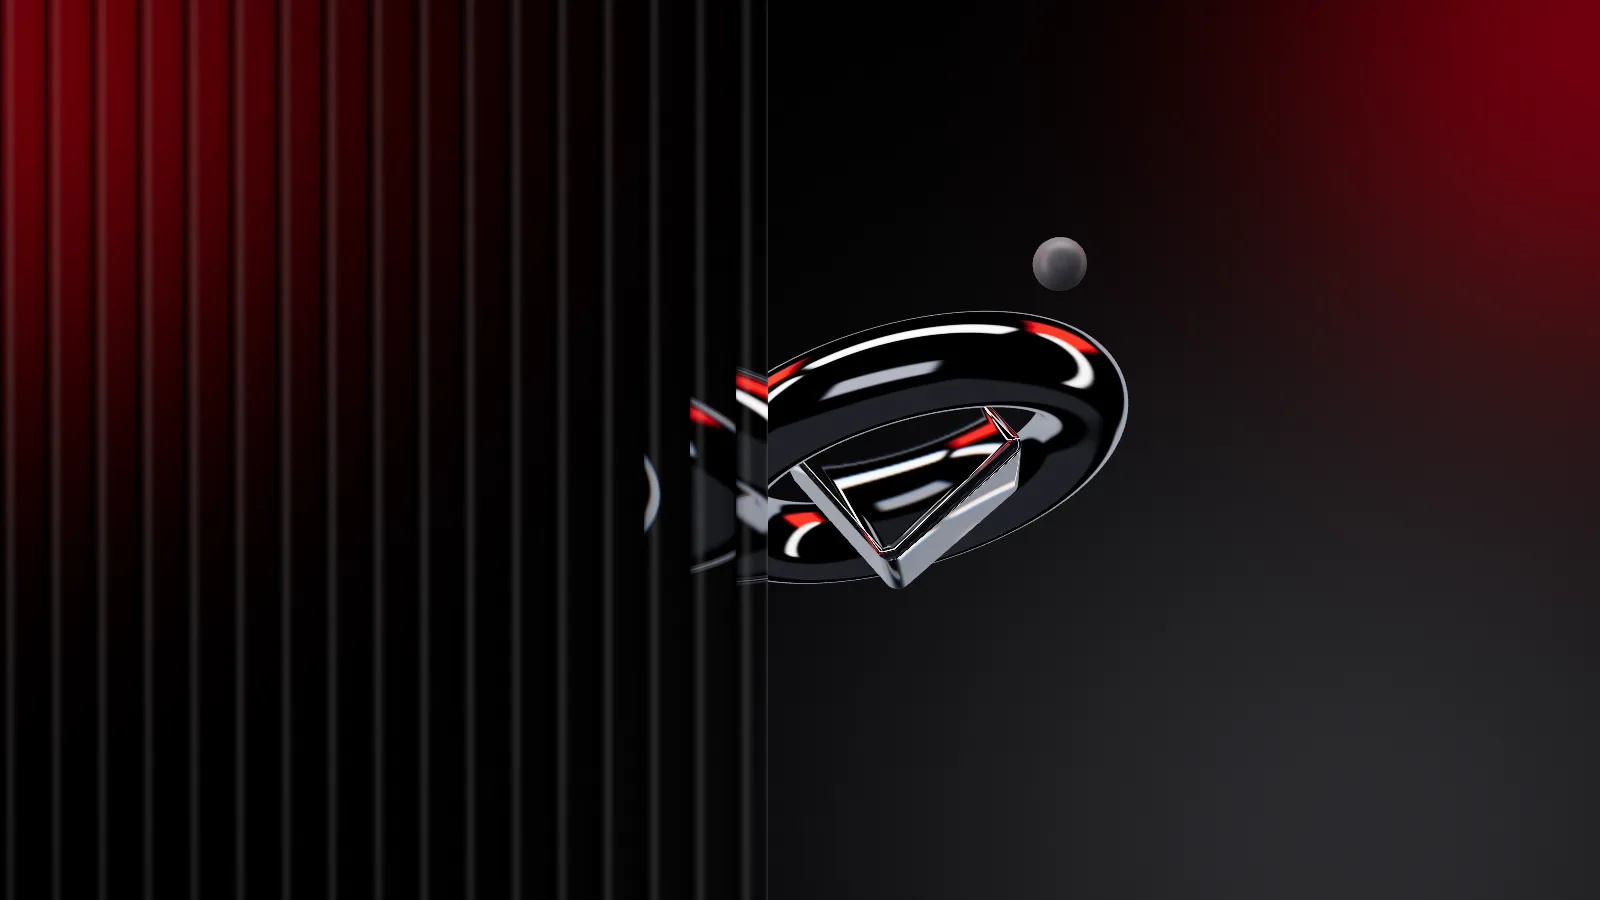
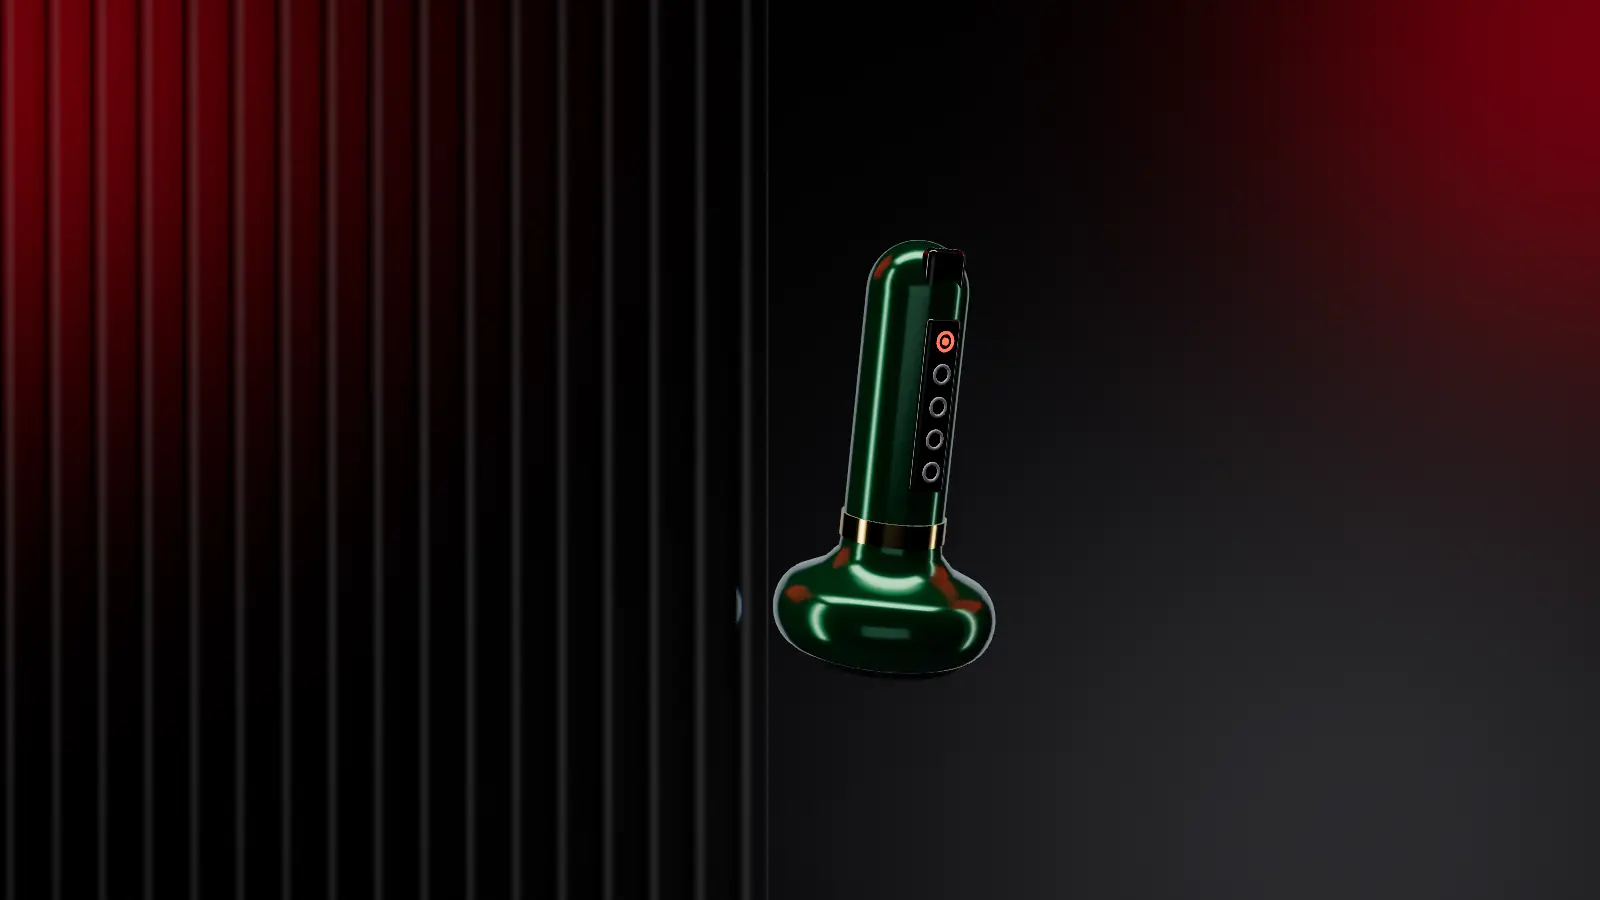
feat(home): a 3D product model in the hero in place of the ring and cube
The hero scene now shows an electric body massager modelled in three.js (a
turned green metallic body, gold band, rubber pad, black control panel with
five buttons) swinging slowly on itself, its panel always towards the
visitor. Same room, lighting, fluted glass and quality steps as before. The
fallback stills are re-rendered from the new scene.

Claude-Session: https://claude.ai/code/session_017pBbcqrgy4CsoAD5DuqsEz

Changed region(s): [[0.375, 0.2489, 0.7188, 0.7467]]

diff --git a/src/components/home/heroScene.ts b/src/components/home/heroScene.ts
@@ -1,6 +1,7 @@
 /**
- * The home page's 3D hero: a polished ring turning around a crystal cube (the product at the centre of its
- * campaign), seen through a fluted glass panel, in a dark room lit by deep red light.
+ * The home page's 3D hero: a product modelled in 3D (an electric body massager: green metallic body, gold band,
+ * black control panel) turning slowly on itself, seen through a fluted glass panel, in a dark room lit by deep red
+ * light.
  *
  * Two passes. The scene (a background plane, the objects) is rendered into an HDR target; a full-screen pass then
  * draws it through the fluted panel, adds the vignette, and tone-maps it to the screen. Loaded on demand (this
@@ -11,8 +12,10 @@ import {
   ACESFilmicToneMapping,
   Color,
   DoubleSide,
+  CylinderGeometry,
   Group,
   HalfFloatType,
+  LatheGeometry,
   Mesh,
   MeshBasicMaterial,
   MeshPhysicalMaterial,
@@ -23,12 +26,12 @@ import {
   PMREMGenerator,
   Scene,
   ShaderMaterial,
-  SphereGeometry,
   SRGBColorSpace,
   TorusGeometry,
   Vector2,
   WebGLRenderer,
   WebGLRenderTarget,
+  type BufferGeometry,
   type Material,
   type Texture,
 } from 'three';
@@ -69,7 +72,7 @@ export interface HeroSceneOptions {
 const FOV = 30;
 const CAMERA_Z = 9;
 const BACKDROP_Z = -8;
-/** height of the object group in world units at scale 1 (the ring's outer diameter with a little air) */
+/** height of the object group in world units at scale 1 (the product's height with a little air) */
 const OBJECT_HEIGHT = 2.9;
 const INTRO_SECONDS = 1.8;
 
@@ -183,7 +186,7 @@ function buildEnvironment(renderer: WebGLRenderer): WebGLRenderTarget<Texture> {
     materials.push(material);
   };
   panel(8, 1.6, 0xffffff, 6, [0, 5.5, 0.5]); // overhead softbox
-  panel(0.6, 8, 0xffffff, 7, [-5.5, 0.5, 1.5]); // tall strips on both sides: the bright lines along the ring
+  panel(0.6, 8, 0xffffff, 7, [-5.5, 0.5, 1.5]); // tall strips on both sides: the bright lines along the product
   panel(0.4, 8, 0xffffff, 5, [5.5, 0.5, -1]);
   panel(10, 6, 0x7a7e88, 1.6, [0, 0, -7]); // grey back wall, so polished metal reads silver, not black
   panel(10, 10, 0x3a3b40, 0.9, [0, -5, 0]);
@@ -198,26 +201,74 @@ function buildEnvironment(renderer: WebGLRenderer): WebGLRenderTarget<Texture> {
   return target;
 }
 
-/** The ring is polished metal everywhere; the cube is real refractive crystal where the device can afford it. */
-function objectMaterials(transmission: boolean): { ring: MeshPhysicalMaterial; cube: MeshPhysicalMaterial } {
-  const ring = new MeshPhysicalMaterial({ color: 0xe6e8ec, metalness: 1, roughness: 0.06, clearcoat: 1, clearcoatRoughness: 0.03, envMapIntensity: 1.2 });
-  if (transmission) {
-    return {
-      ring,
-      cube: new MeshPhysicalMaterial({
-        color: 0xffffff, metalness: 0, roughness: 0, transmission: 1, thickness: 1.6, ior: 2.2, dispersion: 0.8,
-        clearcoat: 1, clearcoatRoughness: 0.02, envMapIntensity: 2.6,
-      }),
-    };
-  }
-  // phones and weak machines: smoked crystal, no transmission pass
+/** The product's finishes: metallic green paint under a clear coat, polished gold, glossy black glass. */
+function productMaterials() {
   return {
-    ring,
-    cube: new MeshPhysicalMaterial({
-      color: 0xa4aab4, metalness: 0.4, roughness: 0.08, clearcoat: 1, clearcoatRoughness: 0.02, envMapIntensity: 1.9,
-      transparent: true, opacity: 0.88,
+    body: new MeshPhysicalMaterial({
+      color: 0x0b6b3c, metalness: 0.55, roughness: 0.22, clearcoat: 1, clearcoatRoughness: 0.04, envMapIntensity: 1.5,
     }),
+    gold: new MeshPhysicalMaterial({ color: 0xe2bd72, metalness: 1, roughness: 0.16, clearcoat: 0.6, envMapIntensity: 1.4 }),
+    black: new MeshPhysicalMaterial({ color: 0x08090a, metalness: 0.2, roughness: 0.12, clearcoat: 1, clearcoatRoughness: 0.03, envMapIntensity: 1.3 }),
+    rubber: new MeshStandardMaterial({ color: 0x0d0d0f, roughness: 0.85, metalness: 0 }),
+    button: new MeshStandardMaterial({ color: 0xd9dbe0, roughness: 0.35, metalness: 0.6, envMapIntensity: 1.2 }),
+    power: new MeshStandardMaterial({ color: 0x3a0306, emissive: 0xff2a2a, emissiveIntensity: 2.2, roughness: 0.3 }),
   };
+}
+
+/**
+ * The massager, standing on its base, centred on the origin and about 2.5 units tall: a turned body (bulb base,
+ * waist, tall handle with a domed top), a gold band at the waist, a black rubber pad underneath, and the control
+ * panel on its front (a dark strip, five buttons, the glossy black head at the top).
+ */
+function buildProduct(high: boolean, materials: ReturnType<typeof productMaterials>) {
+  const group = new Group();
+  const geometries: BufferGeometry[] = [];
+  const add = (geometry: BufferGeometry, material: Material, place: (m: Mesh) => void = () => {}) => {
+    geometries.push(geometry);
+    const mesh = new Mesh(geometry, material);
+    place(mesh);
+    group.add(mesh);
+    return mesh;
+  };
+  const turns = high ? 128 : 64;
+
+  // the body's outline, from the centre of the base up to the top of the dome (x = radius, y = height)
+  const profile: Vector2[] = [];
+  const point = (x: number, y: number) => profile.push(new Vector2(x, y));
+  point(0, -1.2);
+  point(0.5, -1.2);
+  // the bulb: a flattened half circle
+  for (let i = 0; i <= 14; i++) {
+    const a = -Math.PI / 2 + (i / 14) * Math.PI * 0.92;
+    point(0.5 + Math.cos(a) * 0.17, -0.98 + Math.sin(a) * 0.22);
+  }
+  // the waist rises into the gold band
+  point(0.4, -0.7);
+  point(0.31, -0.6);
+  point(0.3, -0.5);
+  // the handle, then its dome
+  point(0.3, 0.95);
+  for (let i = 1; i <= 10; i++) {
+    const a = (i / 10) * (Math.PI / 2);
+    point(Math.cos(a) * 0.3, 0.95 + Math.sin(a) * 0.3);
+  }
+  add(new LatheGeometry(profile, turns), materials.body);
+
+  add(new CylinderGeometry(0.315, 0.315, 0.14, turns), materials.gold, (m) => (m.position.y = -0.45));
+  add(new CylinderGeometry(0.47, 0.49, 0.06, turns), materials.rubber, (m) => (m.position.y = -1.22));
+
+  // the control panel sits just proud of the front of the handle
+  add(new RoundedBoxGeometry(0.24, 1.02, 0.08, high ? 4 : 2, 0.035), materials.black, (m) => m.position.set(0, 0.32, 0.27));
+  add(new RoundedBoxGeometry(0.27, 0.34, 0.12, high ? 4 : 2, 0.05), materials.black, (m) => m.position.set(0, 1.05, 0.22));
+  for (let i = 0; i < 5; i++) {
+    add(new TorusGeometry(0.052, 0.009, 12, 36), i === 0 ? materials.power : materials.button, (m) => m.position.set(0, 0.7 - i * 0.19, 0.316));
+  }
+  // the power button's lit centre
+  add(new CylinderGeometry(0.022, 0.022, 0.01, 24), materials.power, (m) => {
+    m.rotation.x = Math.PI / 2;
+    m.position.set(0, 0.7, 0.316);
+  });
+  return { group, geometries };
 }
 
 // The scene runs on the page or inside a worker (OffscreenCanvas); some workers have no requestAnimationFrame.
@@ -261,17 +312,9 @@ export function createHeroScene(canvas: HTMLCanvasElement | OffscreenCanvas, { q
   pivot.add(tilt);
   scene.add(pivot);
 
-  const materials = objectMaterials(quality.transmission);
-  const ringGeometry = new TorusGeometry(1.12, 0.26, high ? 64 : 40, high ? 220 : 140);
-  const ring = new Mesh(ringGeometry, materials.ring);
-  tilt.add(ring);
-  const cubeGeometry = new RoundedBoxGeometry(1.04, 1.04, 1.04, high ? 6 : 3, 0.085);
-  const cube = new Mesh(cubeGeometry, materials.cube);
-  tilt.add(cube);
-  const sphereGeometry = new SphereGeometry(0.17, high ? 48 : 28, high ? 32 : 20);
-  const sphereMaterial = new MeshStandardMaterial({ color: 0xa3a3a9, roughness: 0.5, metalness: 0.1, envMapIntensity: 1.2 });
-  const sphere = new Mesh(sphereGeometry, sphereMaterial);
-  pivot.add(sphere);
+  const materials = productMaterials();
+  const product = buildProduct(high, materials);
+  tilt.add(product.group);
 
   const postMaterial = new ShaderMaterial({
     vertexShader: POST_VERTEX,
@@ -336,12 +379,11 @@ export function createHeroScene(canvas: HTMLCanvasElement | OffscreenCanvas, { q
     motion.scrollShown = damp(motion.scrollShown, motion.scroll, 7, dt);
     const t = motion.time;
     const mirror = layout.rtl ? -1 : 1;
-    // the ring rocks slowly but always shows its opening (never edge-on), and the whole piece turns in the picture
-    // plane, a turn every ~100 s; the entrance arrives with a quarter turn that settles
-    ring.rotation.set(1.0 + Math.sin(t * 0.37) * 0.12, Math.sin(t * 0.23 + 1) * 0.42, 0);
-    cube.rotation.set(0.62 + t * 0.15, 0.38 - t * 0.21, 0.18);
-    tilt.rotation.z = (-0.42 + t * 0.06 - (1 - intro) * 0.9) * mirror;
-    sphere.position.set(1.05 * mirror, 1.3 + Math.sin(t * 0.9) * 0.07, -0.7);
+    // the product swings slowly on itself, its control panel always turned towards the visitor (never shown from
+    // the back), leans a little, and bobs as if floating; the entrance arrives with a half turn that settles
+    product.group.rotation.y = (Math.sin(t * 0.32) * 0.75 + (1 - intro) * Math.PI) * mirror;
+    tilt.rotation.set(0.14 + Math.sin(t * 0.27) * 0.04, 0, (-0.12 + Math.sin(t * 0.21) * 0.05) * mirror);
+    tilt.position.y = Math.sin(t * 0.9) * 0.06;
     pivot.rotation.set(-motion.y * 0.16, motion.x * 0.26 * mirror, motion.scrollShown * 0.5 * mirror);
     pivot.position.set(base.x, base.y + motion.scrollShown * base.visibleHeight * 0.22, 0);
     pivot.scale.setScalar(base.scale * (0.92 + 0.08 * intro));
@@ -428,9 +470,9 @@ export function createHeroScene(canvas: HTMLCanvasElement | OffscreenCanvas, { q
     disposed = true;
     stop();
     canvas.removeEventListener('webglcontextlost', onLost);
-    const owned: Material[] = [backdropMaterial, materials.ring, materials.cube, sphereMaterial, postMaterial];
+    const owned: Material[] = [backdropMaterial, postMaterial, ...Object.values(materials)];
     owned.forEach((m) => m.dispose());
-    [backdropGeometry, ringGeometry, cubeGeometry, sphereGeometry, postGeometry].forEach((g) => g.dispose());
+    [backdropGeometry, postGeometry, ...product.geometries].forEach((g) => g.dispose());
     environment?.dispose();
     target.dispose();
     renderer.dispose();

diff --git a/README.md b/README.md
@@ -66,8 +66,9 @@ scripts/                   Admin and maintenance scripts
 ## Home page
 
 The public home page is always dark (whatever the visitor's app theme), with the red of the Algerian flag as its one
-accent; the app keeps its own violet. Its first screen is a real-time 3D scene: a polished ring turning around a
-crystal cube, seen through a fluted glass panel, lit red from the corners.
+accent; the app keeps its own violet. Its first screen is a real-time 3D scene: a product modelled in 3D (an electric
+body massager in metallic green with a gold band and a black control panel) swinging slowly on itself, seen through a
+fluted glass panel, lit red from the corners.
 
 - **Scene:** `src/components/home/heroScene.ts` (three.js, no React). The scene is rendered into an HDR target, then a
   full-screen pass draws it through the fluted panel. The panel's extent and the object's place are read from two
